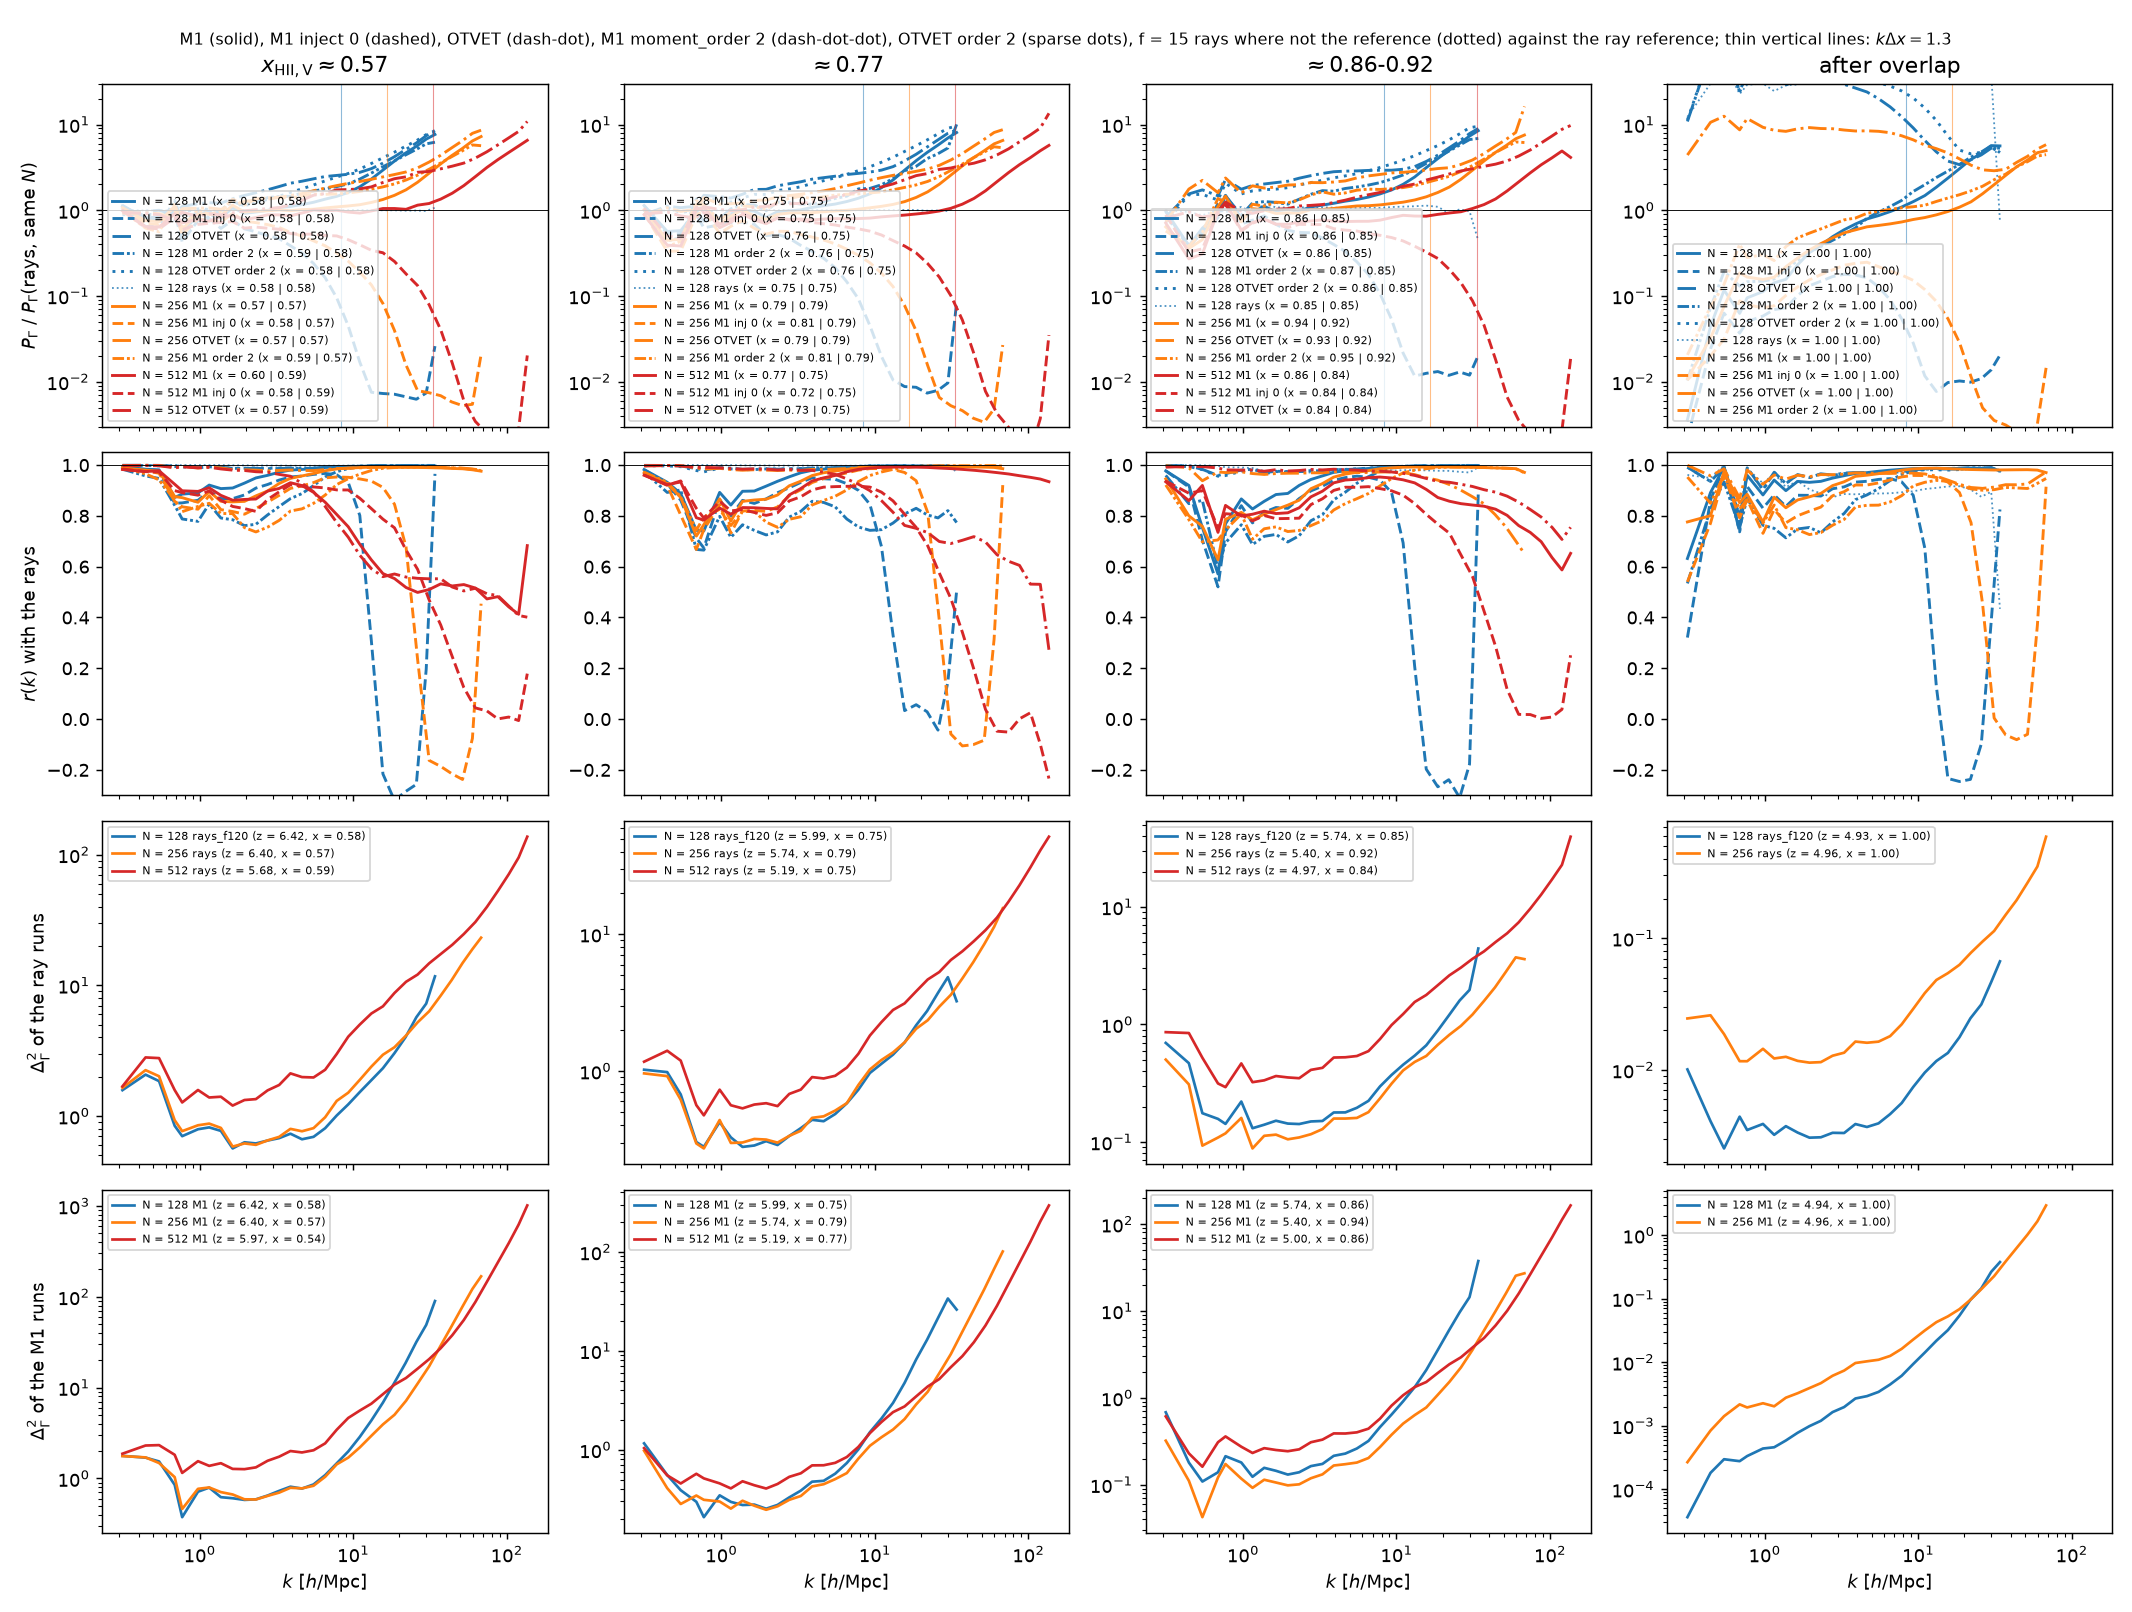
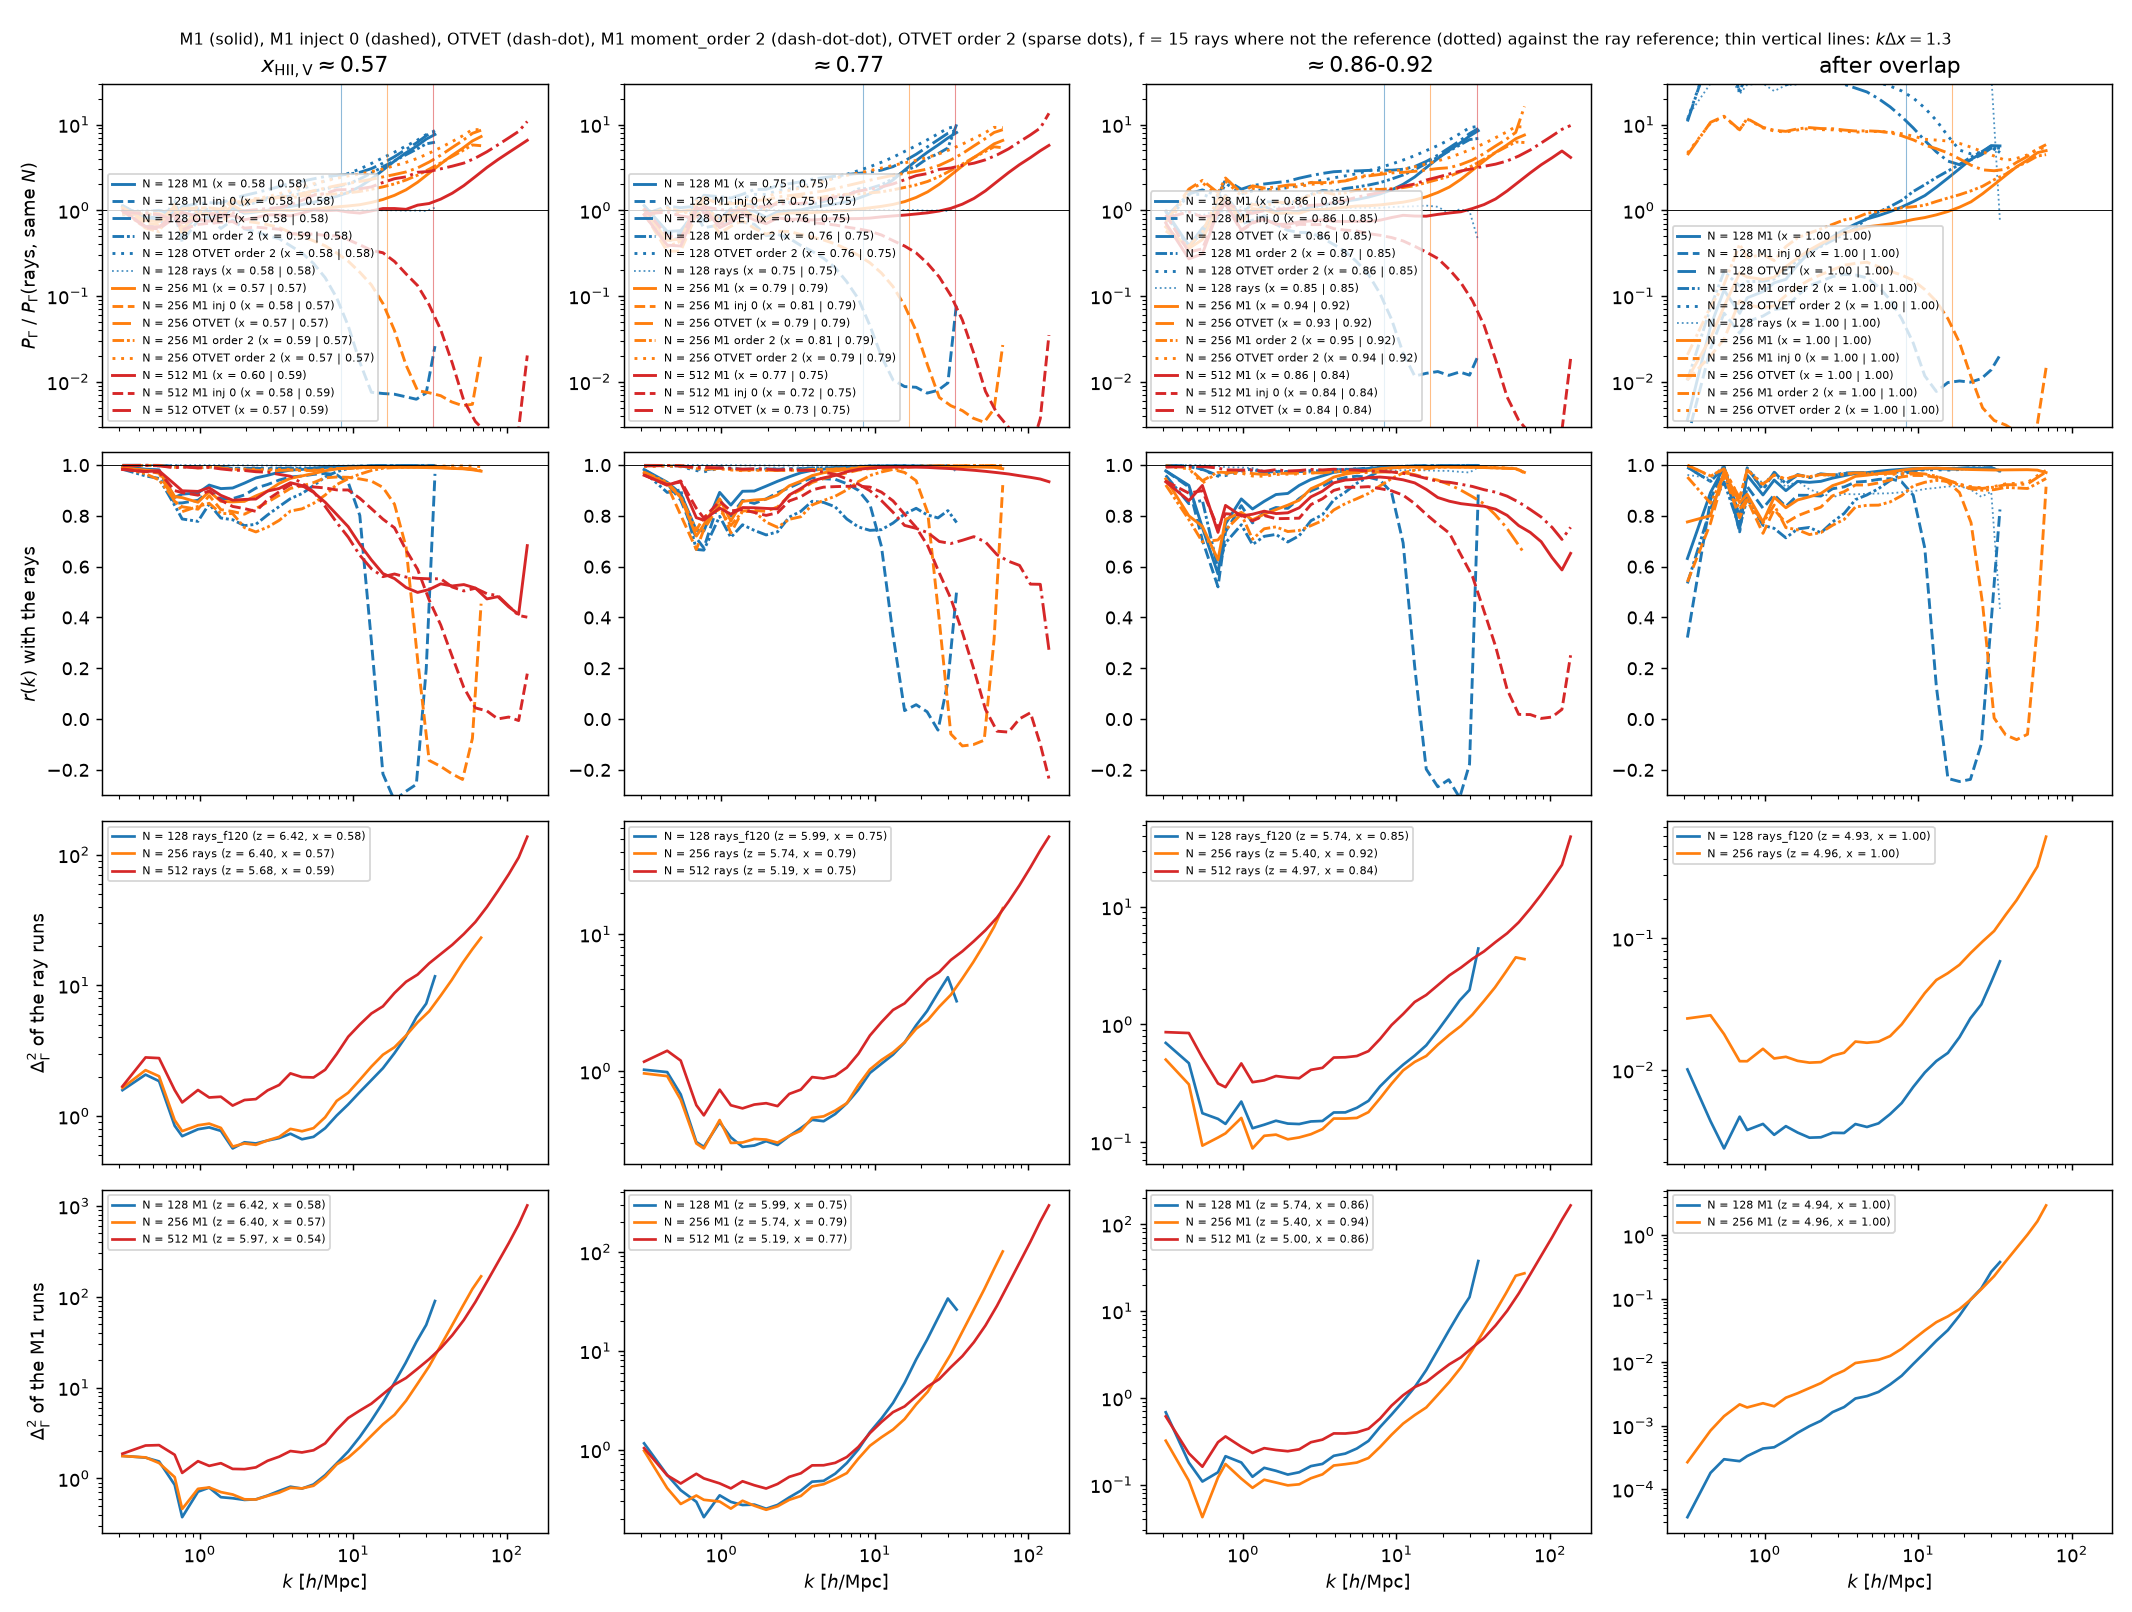
rt_moments 8.2-8.3: OTVET with moment_order = 2 at 256^3 (the last convergence run); figure and table refreshed
Claude-Session: https://claude.ai/code/session_01VFiZmS7UWHvPFDz1PfxAs7

diff --git a/docs/rt_moments.md b/docs/rt_moments.md
@@ -897,7 +897,7 @@ P_Γ/P_Γ(rays) at k = 1, 2, 4, 8, 16 h/Mpc, x_V ≈ 0.57–0.59:
 | M1, `moment_inject = 0` | 0.76 0.60 0.38 0.09 0.01 | 0.79 0.74 0.54 0.31 0.08 | 0.69 0.62 0.53 0.50 0.31 |
 | OTVET | 1.20 1.50 2.08 2.56 3.64 | 1.06 1.27 1.50 1.96 2.47 | 0.86 0.99 1.18 1.73 2.14 |
 | M1, `moment_order = 2` | 0.94 1.14 1.47 1.91 3.29 | 1.00 1.18 1.40 1.56 1.90 | – |
-| OTVET, `moment_order = 2` | 1.04 1.21 1.64 2.47 4.19 | running | – |
+| OTVET, `moment_order = 2` | 1.04 1.21 1.64 2.47 4.19 | 1.08 1.33 1.72 2.38 3.07 | – |
 
 After overlap (z ≈ 4.95; λ = 38 pMpc at 128³ and 15 pMpc at 256³, 7.7 and
 3.2 box lengths):
@@ -908,7 +908,7 @@ After overlap (z ≈ 4.95; λ = 38 pMpc at 128³ and 15 pMpc at 256³, 7.7 and
 | M1, `moment_inject = 0` | 0.06 0.13 0.17 0.05 0.01 | 0.07 0.16 0.24 0.17 0.05 |
 | OTVET | 35 34 26 12 3.7 | 9.2 9.2 8.4 7.3 4.6 |
 | M1, `moment_order = 2` | 0.15 0.33 0.65 1.35 2.95 | 0.30 0.55 0.83 1.07 1.41 |
-| OTVET, `moment_order = 2` | 36 36 34 24 7.0 | running |
+| OTVET, `moment_order = 2` | 36 36 34 24 7.0 | 9.0 9.0 8.2 7.7 6.4 |
 
 - **The prediction of §7 holds after overlap**: M1 overtakes the rays at
   kΔx = 1.08 (128³) and 1.28 (256³), and its ratio to the rays at fixed
@@ -953,10 +953,14 @@ After overlap (z ≈ 4.95; λ = 38 pMpc at 128³ and 15 pMpc at 256³, 7.7 and
   0.86–0.95 to 0.75–0.84 (256³). After overlap at 256³ it has more power
   at every k (0.30 of the rays at k = 1 h/Mpc against 0.16), again with
   lower r. **The cause is not known.**
-- **`moment_order = 2` with OTVET (128³)** lowers the excess at
-  k ≤ 8 h/Mpc during reionization and raises it at k = 16 h/Mpc; after
-  overlap it raises it at k = 4–16 h/Mpc (34, 24, 7.0 against 26, 12,
-  3.7). The 256³ run is not finished.
+- **`moment_order = 2` with OTVET does not reduce its excess either.**
+  During reionization it lowers the excess at k ≤ 8 h/Mpc at 128³ and
+  raises it at k = 16 h/Mpc; at 256³ it raises it at every k ≥ 1 h/Mpc
+  (k = 2–16 h/Mpc: 1.33, 1.72, 2.38, 3.07 against 1.27, 1.50, 1.96, 2.47). After
+  overlap it raises it at k = 4–16 h/Mpc at 128³ (34, 24, 7.0 against 26,
+  12, 3.7) and at k = 8–16 h/Mpc at 256³ (7.7, 6.4 against 7.3, 4.6).
+  At the two epochs of the tables r_Γ with the rays is unchanged to 0.01
+  at both N, unlike for M1.
 
 ### 8.4 The uniform test of §7 with the rays
 

diff --git a/docs/STATUS.md b/docs/STATUS.md
@@ -82,8 +82,9 @@ The user asked whether our Γ-fluctuation trends contradict arXiv:2504.10571
   - The exact linear solution of the discrete first-order scheme
     (`tools/analysis/moment_transfer_exact.py`, §7.1): the code matches it
     to 3 % in every bin at 32³–256³.
-  - Still running: OTVET with `moment_order = 2` at 256³ (one row of the
-    §8.2 tables).
+  - OTVET with `moment_order = 2` at 256³ ended 2026-11-24 and is in the
+    §8.2 tables: second order does not reduce OTVET's excess over the rays
+    either (§8.3).
 - Paper (`astromcquinn/RT_closure`, `main`): the Gnedin 2025 comparison,
   M1's numerical high-k power and the convergence caveat are in.
 - Open: a T_ΓL(k) figure of the 512³ runs against their own source field
